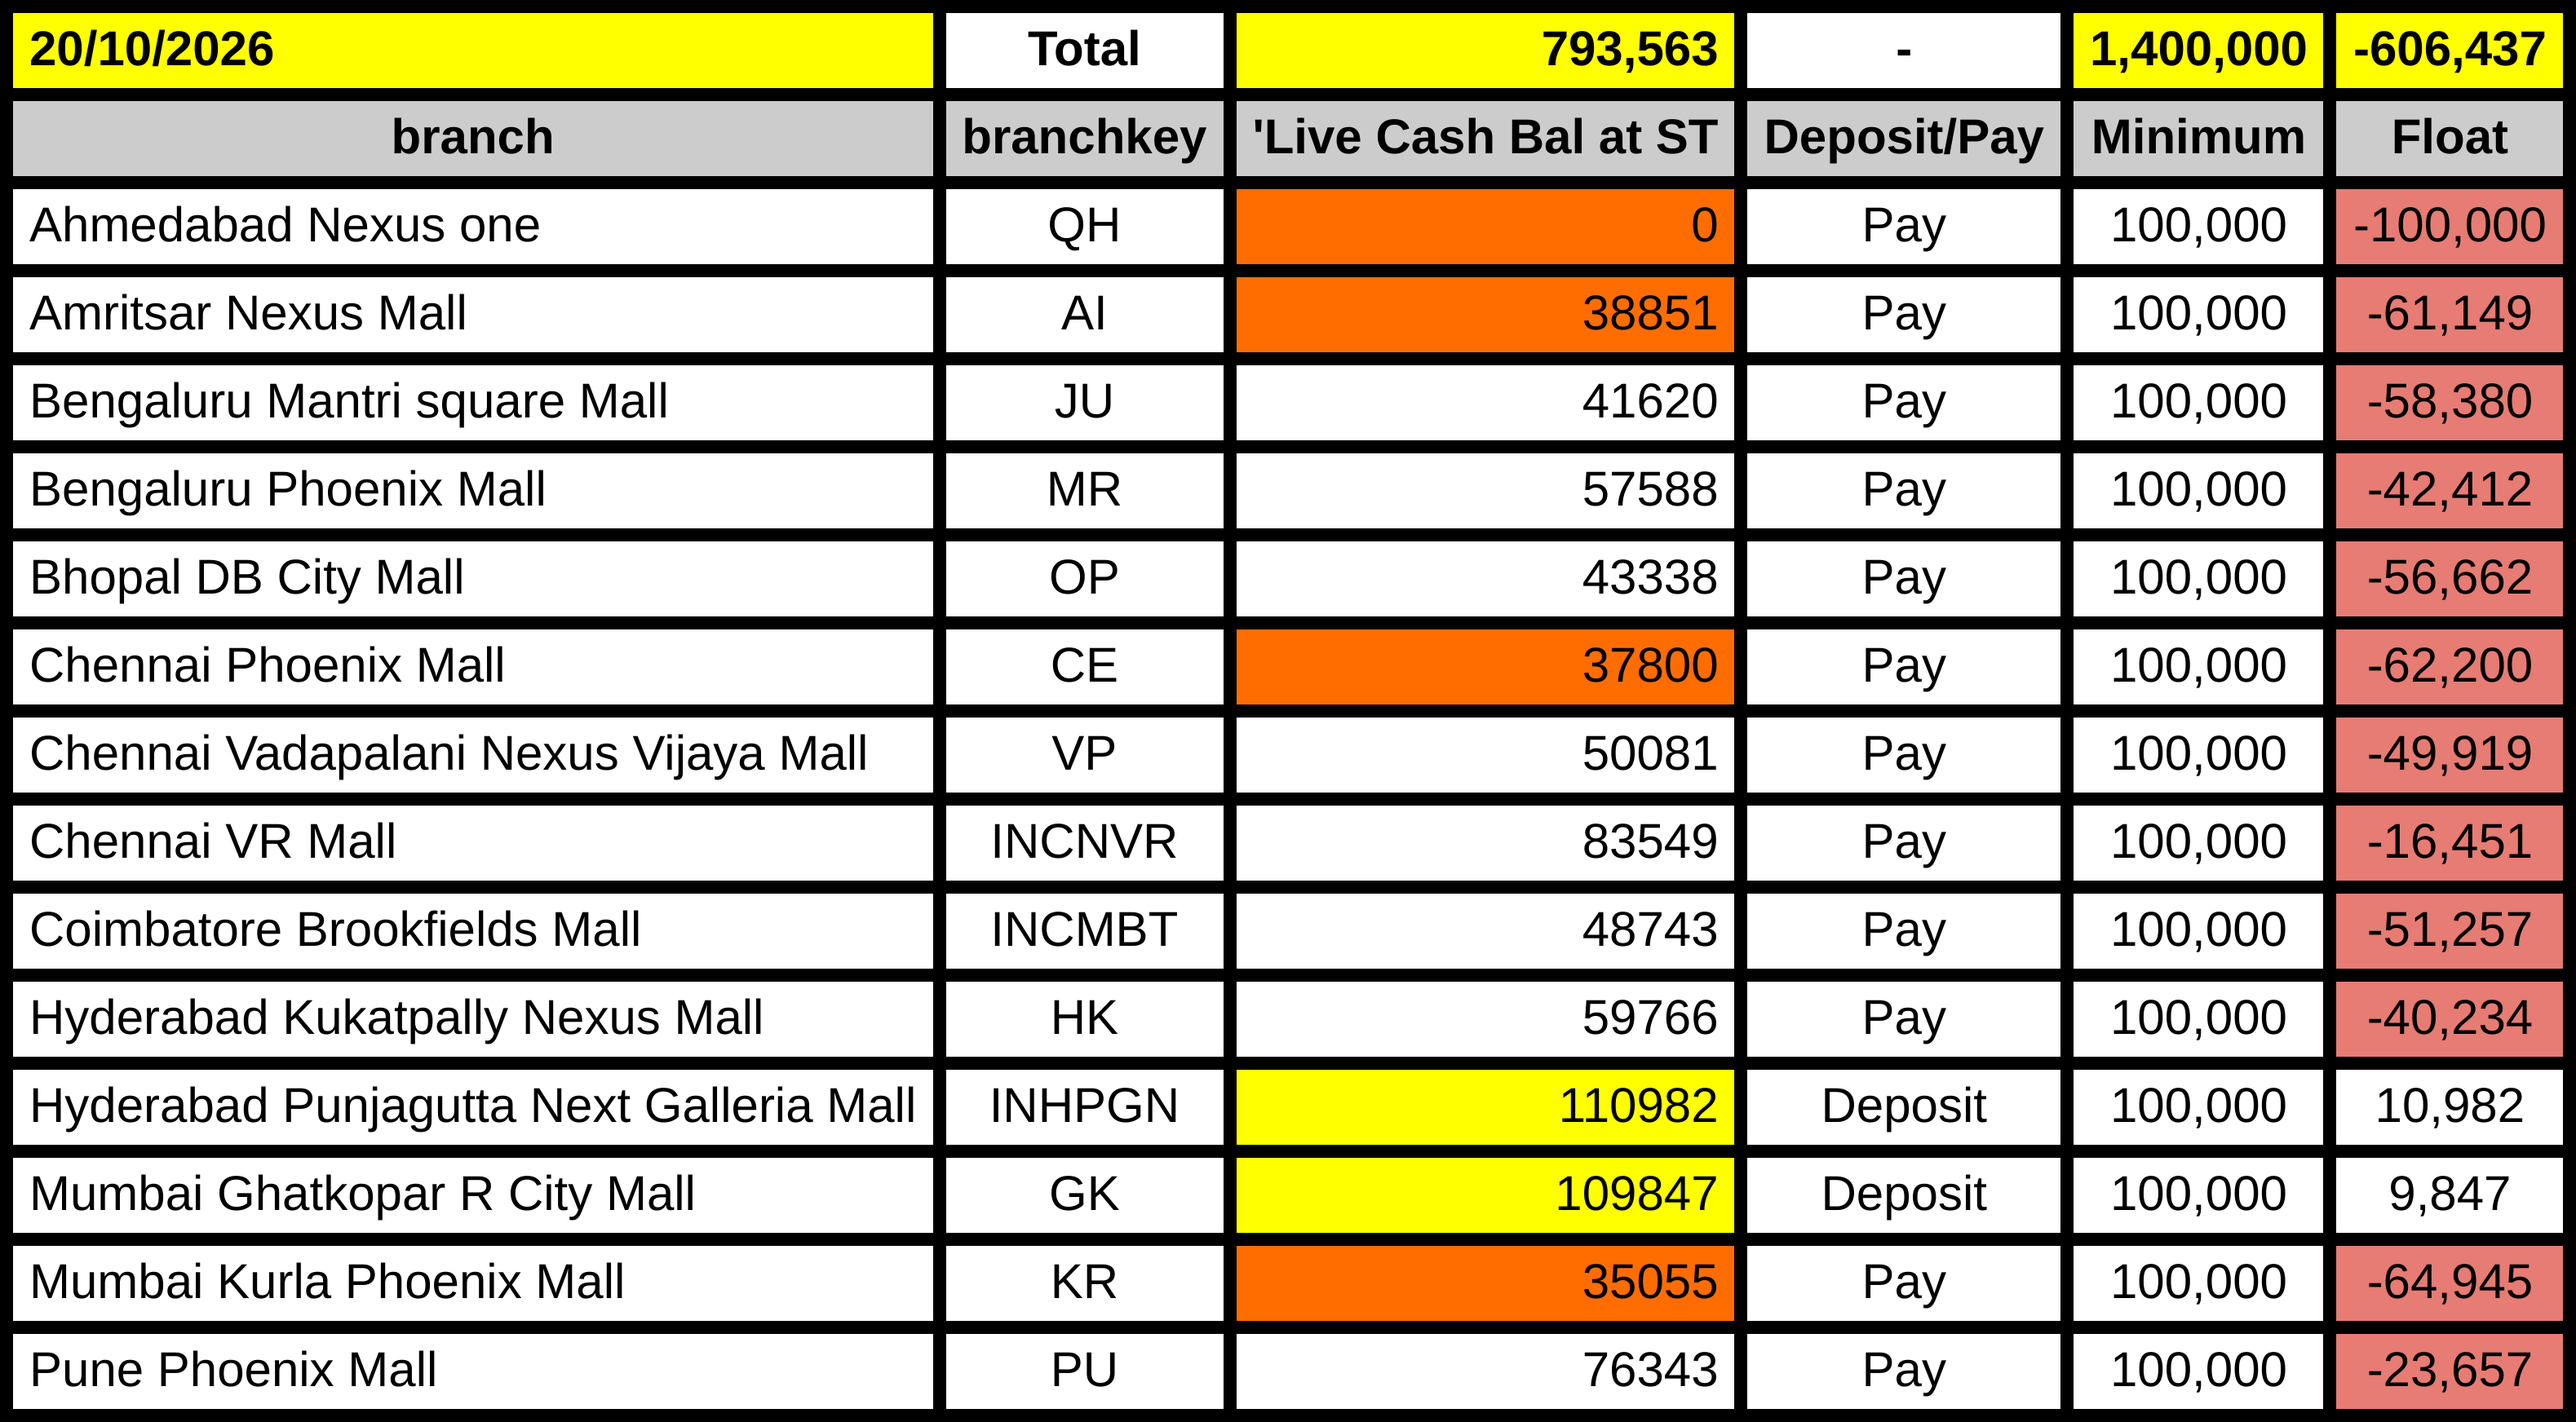
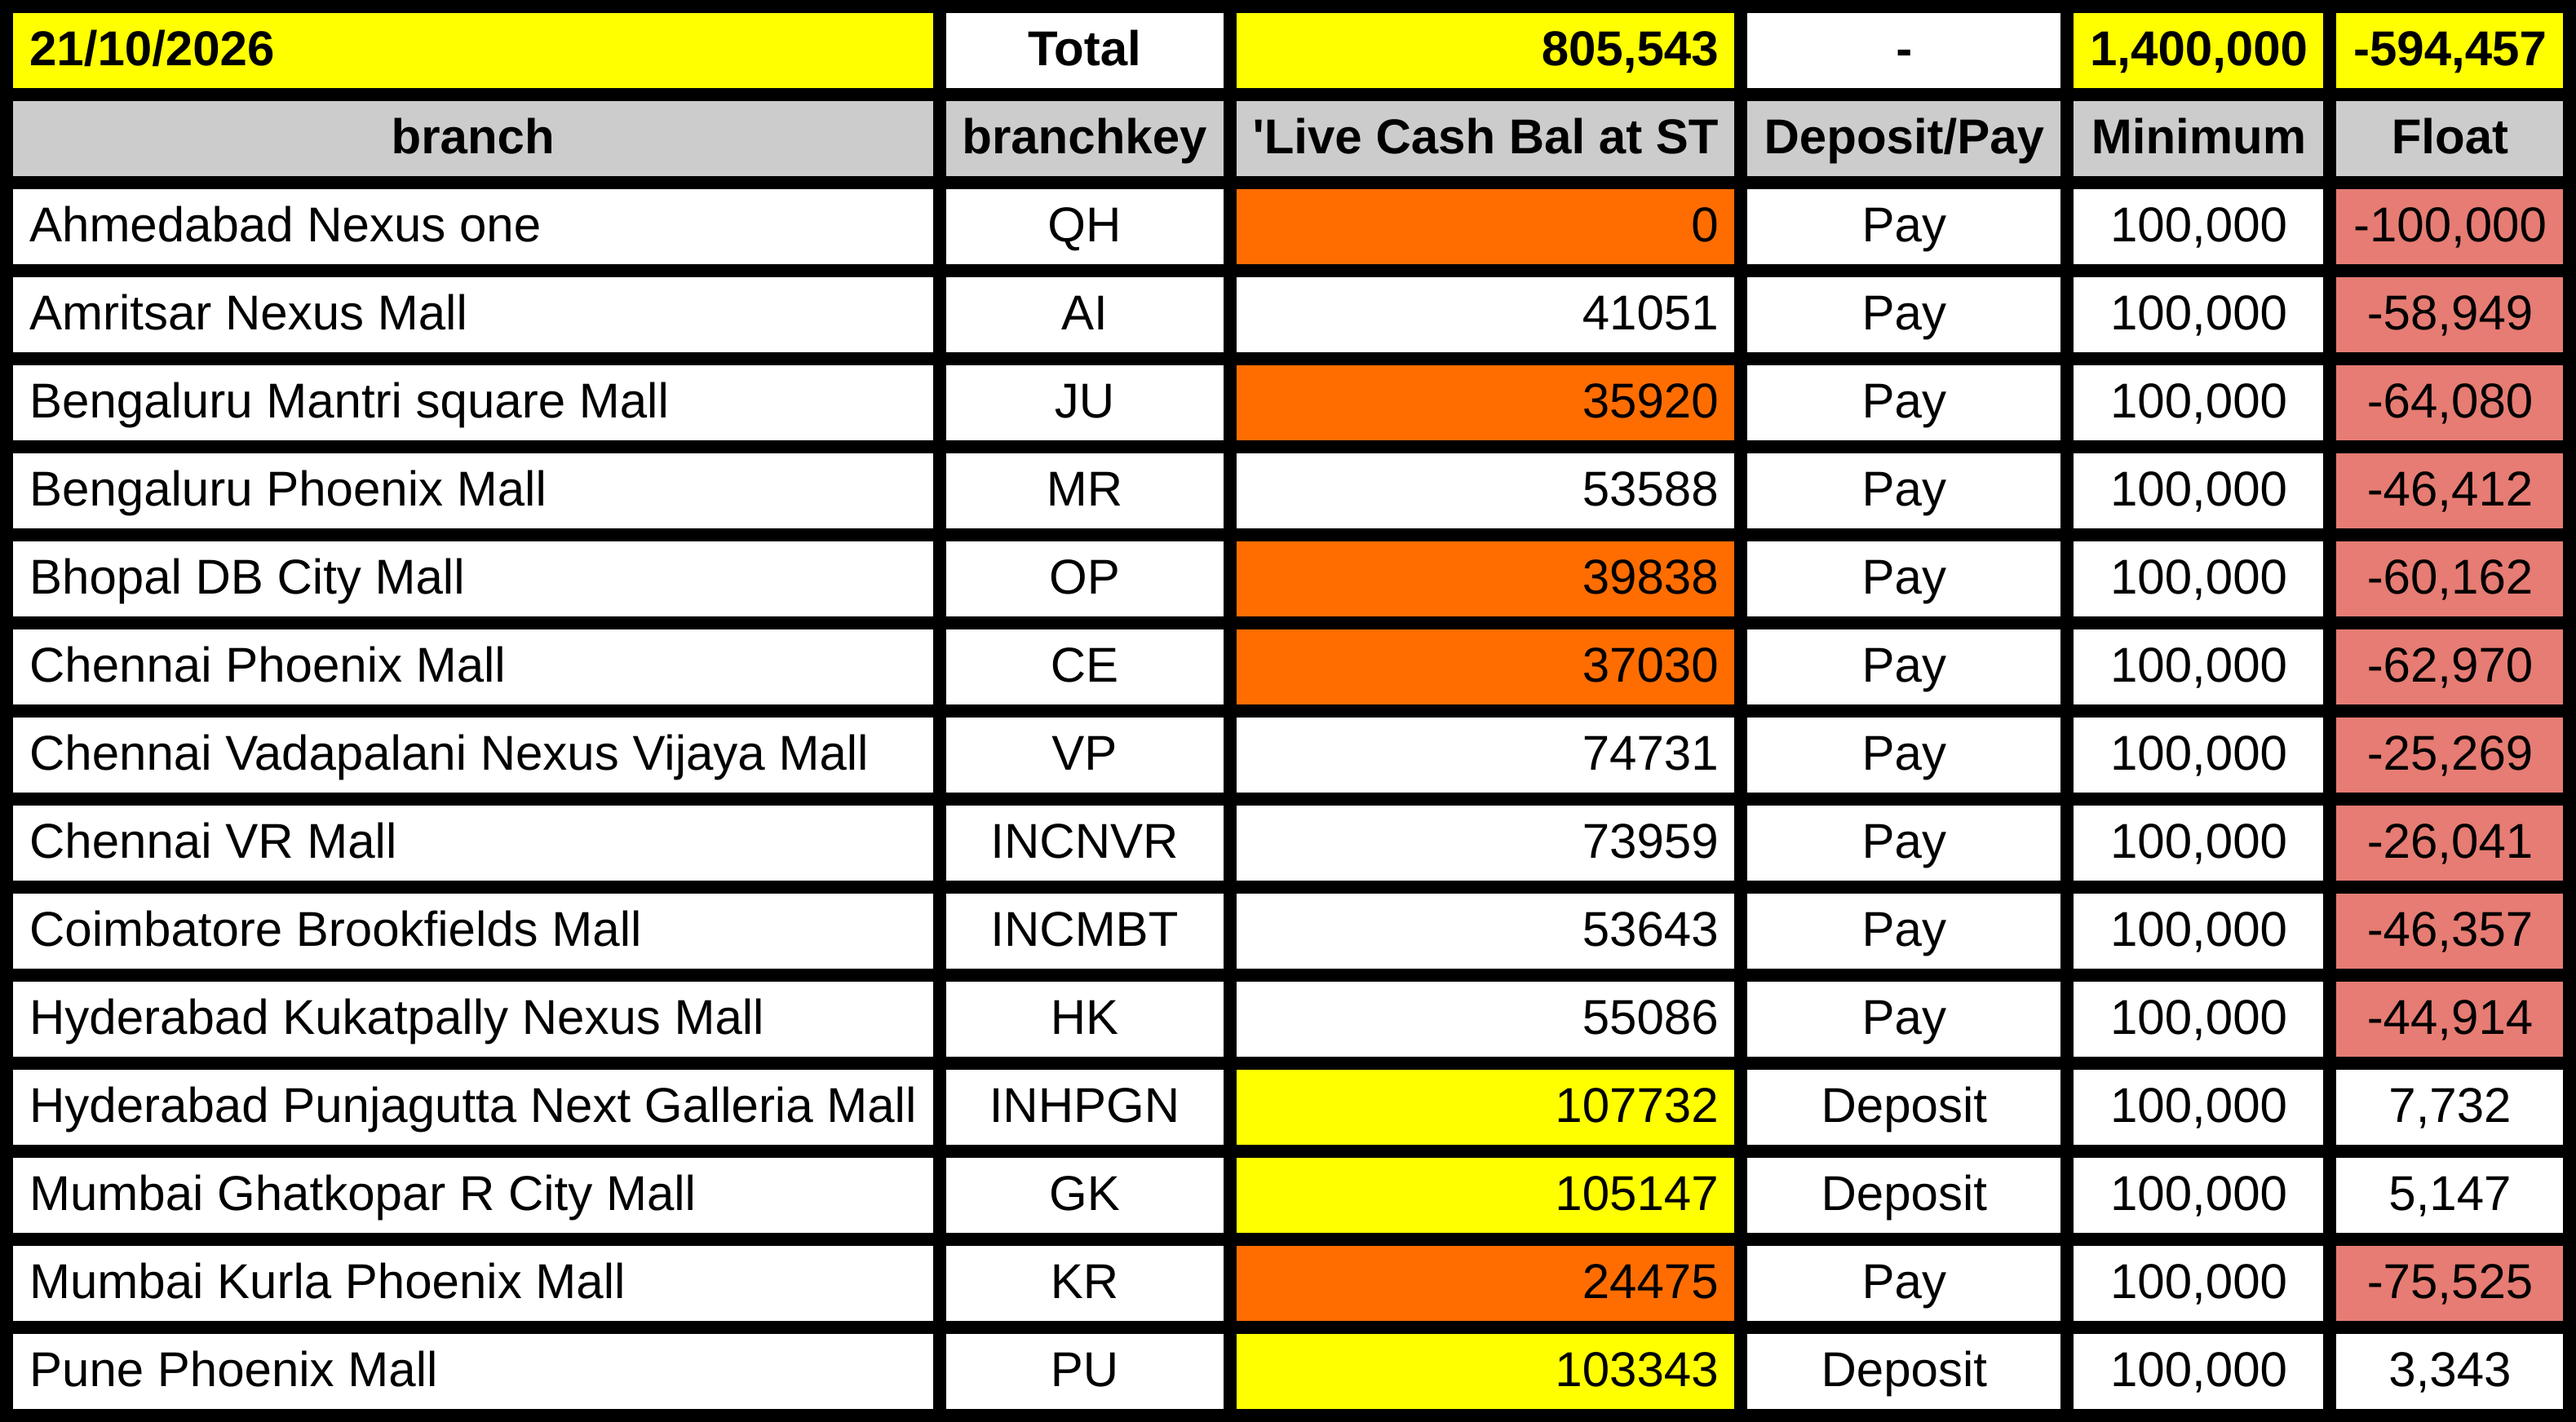
deploy: 1eb6ce62876c9d41067b4594acfaffc291ee4c8b

diff --git a/table.html b/table.html
@@ -21,7 +21,7 @@
           font-family: Arial, sans-serif;
           font-size: 30px;
           white-space: nowrap;
-        ">20/10/2026</td>
+        ">21/10/2026</td>
       
         <td style="
           background-color: #ffffff;
@@ -49,7 +49,7 @@
           font-family: Arial, sans-serif;
           font-size: 30px;
           white-space: nowrap;
-        ">793,563</td>
+        ">805,543</td>
       
         <td style="
           background-color: #ffffff;
@@ -91,7 +91,7 @@
           font-family: Arial, sans-serif;
           font-size: 30px;
           white-space: nowrap;
-        ">-606,437</td>
+        ">-594,457</td>
       </tr><tr>
         <td style="
           background-color: #cccccc;
@@ -290,7 +290,7 @@
         ">AI</td>
       
         <td style="
-          background-color: #ff6d01;
+          background-color: #ffffff;
           color: #000000;
           font-weight: normal;
           font-style: normal;
@@ -301,7 +301,7 @@
           font-family: Arial, sans-serif;
           font-size: 30px;
           white-space: nowrap;
-        ">38851</td>
+        ">41051</td>
       
         <td style="
           background-color: #ffffff;
@@ -343,7 +343,7 @@
           font-family: Arial, sans-serif;
           font-size: 30px;
           white-space: nowrap;
-        ">-61,149</td>
+        ">-58,949</td>
       </tr><tr>
         <td style="
           background-color: #ffffff;
@@ -374,7 +374,7 @@
         ">JU</td>
       
         <td style="
-          background-color: #ffffff;
+          background-color: #ff6d01;
           color: #000000;
           font-weight: normal;
           font-style: normal;
@@ -385,7 +385,7 @@
           font-family: Arial, sans-serif;
           font-size: 30px;
           white-space: nowrap;
-        ">41620</td>
+        ">35920</td>
       
         <td style="
           background-color: #ffffff;
@@ -427,7 +427,7 @@
           font-family: Arial, sans-serif;
           font-size: 30px;
           white-space: nowrap;
-        ">-58,380</td>
+        ">-64,080</td>
       </tr><tr>
         <td style="
           background-color: #ffffff;
@@ -469,7 +469,7 @@
           font-family: Arial, sans-serif;
           font-size: 30px;
           white-space: nowrap;
-        ">57588</td>
+        ">53588</td>
       
         <td style="
           background-color: #ffffff;
@@ -511,7 +511,7 @@
           font-family: Arial, sans-serif;
           font-size: 30px;
           white-space: nowrap;
-        ">-42,412</td>
+        ">-46,412</td>
       </tr><tr>
         <td style="
           background-color: #ffffff;
@@ -542,7 +542,7 @@
         ">OP</td>
       
         <td style="
-          background-color: #ffffff;
+          background-color: #ff6d01;
           color: #000000;
           font-weight: normal;
           font-style: normal;
@@ -553,7 +553,7 @@
           font-family: Arial, sans-serif;
           font-size: 30px;
           white-space: nowrap;
-        ">43338</td>
+        ">39838</td>
       
         <td style="
           background-color: #ffffff;
@@ -595,7 +595,7 @@
           font-family: Arial, sans-serif;
           font-size: 30px;
           white-space: nowrap;
-        ">-56,662</td>
+        ">-60,162</td>
       </tr><tr>
         <td style="
           background-color: #ffffff;
@@ -637,7 +637,7 @@
           font-family: Arial, sans-serif;
           font-size: 30px;
           white-space: nowrap;
-        ">37800</td>
+        ">37030</td>
       
         <td style="
           background-color: #ffffff;
@@ -679,7 +679,7 @@
           font-family: Arial, sans-serif;
           font-size: 30px;
           white-space: nowrap;
-        ">-62,200</td>
+        ">-62,970</td>
       </tr><tr>
         <td style="
           background-color: #ffffff;
@@ -721,7 +721,7 @@
           font-family: Arial, sans-serif;
           font-size: 30px;
           white-space: nowrap;
-        ">50081</td>
+        ">74731</td>
       
         <td style="
           background-color: #ffffff;
@@ -763,7 +763,7 @@
           font-family: Arial, sans-serif;
           font-size: 30px;
           white-space: nowrap;
-        ">-49,919</td>
+        ">-25,269</td>
       </tr><tr>
         <td style="
           background-color: #ffffff;
@@ -805,7 +805,7 @@
           font-family: Arial, sans-serif;
           font-size: 30px;
           white-space: nowrap;
-        ">83549</td>
+        ">73959</td>
       
         <td style="
           background-color: #ffffff;
@@ -847,7 +847,7 @@
           font-family: Arial, sans-serif;
           font-size: 30px;
           white-space: nowrap;
-        ">-16,451</td>
+        ">-26,041</td>
       </tr><tr>
         <td style="
           background-color: #ffffff;
@@ -889,7 +889,7 @@
           font-family: Arial, sans-serif;
           font-size: 30px;
           white-space: nowrap;
-        ">48743</td>
+        ">53643</td>
       
         <td style="
           background-color: #ffffff;
@@ -931,7 +931,7 @@
           font-family: Arial, sans-serif;
           font-size: 30px;
           white-space: nowrap;
-        ">-51,257</td>
+        ">-46,357</td>
       </tr><tr>
         <td style="
           background-color: #ffffff;
@@ -973,7 +973,7 @@
           font-family: Arial, sans-serif;
           font-size: 30px;
           white-space: nowrap;
-        ">59766</td>
+        ">55086</td>
       
         <td style="
           background-color: #ffffff;
@@ -1015,7 +1015,7 @@
           font-family: Arial, sans-serif;
           font-size: 30px;
           white-space: nowrap;
-        ">-40,234</td>
+        ">-44,914</td>
       </tr><tr>
         <td style="
           background-color: #ffffff;
@@ -1057,7 +1057,7 @@
           font-family: Arial, sans-serif;
           font-size: 30px;
           white-space: nowrap;
-        ">110982</td>
+        ">107732</td>
       
         <td style="
           background-color: #ffffff;
@@ -1099,7 +1099,7 @@
           font-family: Arial, sans-serif;
           font-size: 30px;
           white-space: nowrap;
-        ">10,982</td>
+        ">7,732</td>
       </tr><tr>
         <td style="
           background-color: #ffffff;
@@ -1141,7 +1141,7 @@
           font-family: Arial, sans-serif;
           font-size: 30px;
           white-space: nowrap;
-        ">109847</td>
+        ">105147</td>
       
         <td style="
           background-color: #ffffff;
@@ -1183,7 +1183,7 @@
           font-family: Arial, sans-serif;
           font-size: 30px;
           white-space: nowrap;
-        ">9,847</td>
+        ">5,147</td>
       </tr><tr>
         <td style="
           background-color: #ffffff;
@@ -1225,7 +1225,7 @@
           font-family: Arial, sans-serif;
           font-size: 30px;
           white-space: nowrap;
-        ">35055</td>
+        ">24475</td>
       
         <td style="
           background-color: #ffffff;
@@ -1267,7 +1267,7 @@
           font-family: Arial, sans-serif;
           font-size: 30px;
           white-space: nowrap;
-        ">-64,945</td>
+        ">-75,525</td>
       </tr><tr>
         <td style="
           background-color: #ffffff;
@@ -1298,7 +1298,7 @@
         ">PU</td>
       
         <td style="
-          background-color: #ffffff;
+          background-color: #ffff00;
           color: #000000;
           font-weight: normal;
           font-style: normal;
@@ -1309,7 +1309,7 @@
           font-family: Arial, sans-serif;
           font-size: 30px;
           white-space: nowrap;
-        ">76343</td>
+        ">103343</td>
       
         <td style="
           background-color: #ffffff;
@@ -1323,7 +1323,7 @@
           font-family: Arial, sans-serif;
           font-size: 30px;
           white-space: nowrap;
-        ">Pay</td>
+        ">Deposit</td>
       
         <td style="
           background-color: #ffffff;
@@ -1340,7 +1340,7 @@
         ">100,000</td>
       
         <td style="
-          background-color: #e67c73;
+          background-color: #ffffff;
           color: #000000;
           font-weight: normal;
           font-style: normal;
@@ -1351,7 +1351,7 @@
           font-family: Arial, sans-serif;
           font-size: 30px;
           white-space: nowrap;
-        ">-23,657</td>
+        ">3,343</td>
       </tr>
   </table>
 </body>
